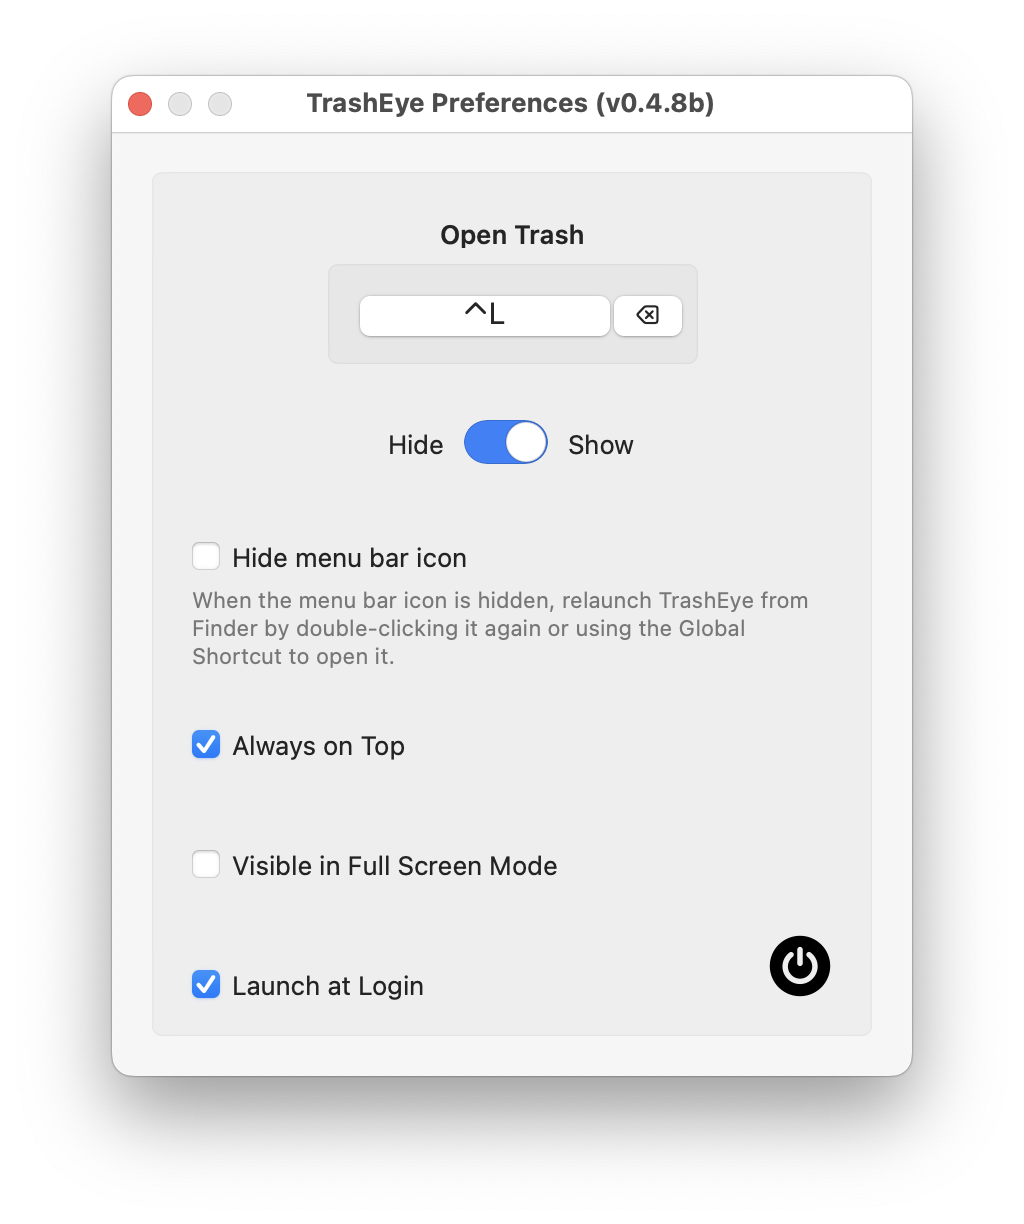
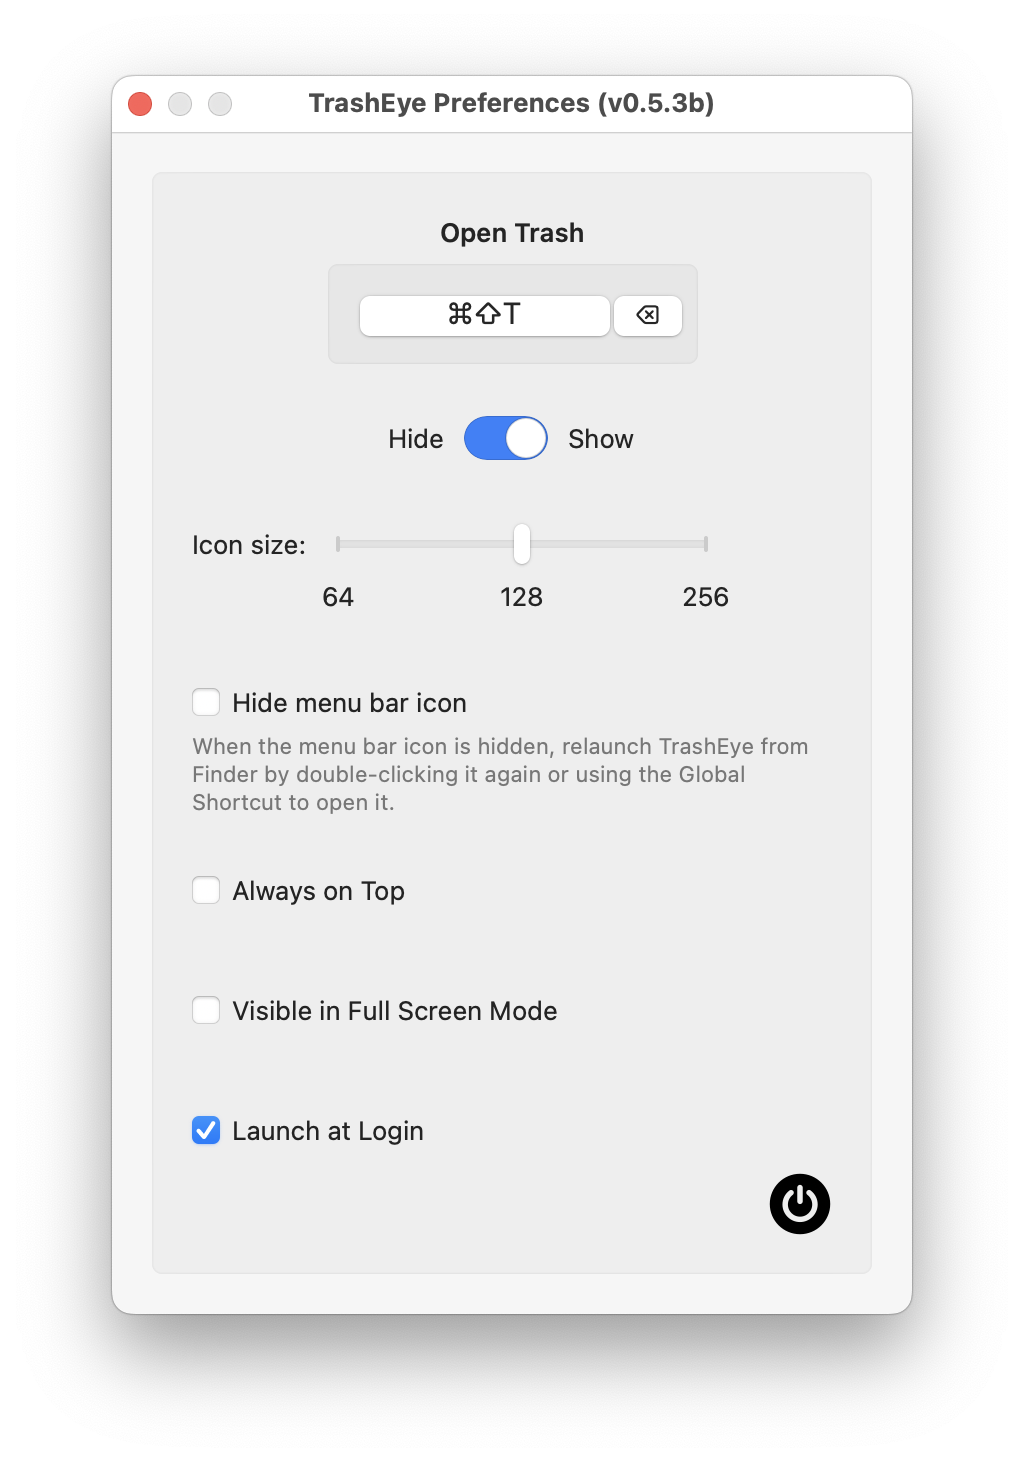
Release TrashEye v0.5.3b and Touch Bar companion widget

diff --git a/downloads.md b/downloads.md
@@ -70,9 +70,19 @@ Yes, they are free while in beta.
 | ------------------- |
 | Apple silicon or Intel processor |
 
-| Version | Download | Release notes | Minimum OS
-| ------- | -------- | ------------- | ----------
-| v0.5.2 | [Public Beta](https://github.com/synappser/TrashEye/releases/download/v0.5.2/TrashEye_v0.5.2b.dmg) | [Release notes]({{ site.url }}{% link releases/trasheye_v0.5.2.md %}) | macOS 10.14.6|
+{:.mt-n1}
+**New!** TrashEye now has a BetterTouchTool Touch Bar companion trash can widget that, beyond showing the number of trashed items, allows you to open the local trash bin by touching the widget's icon.
+
+{:.mt-n3}
+![Companion Widget]({{ site.url }}/images/apps/companion-widget.gif)
+
+{:.mt-n3}
+**[Download the companion widget](https://github.com/synappser/Companion/releases/download/v1.0/Companion_v1.0.zip?raw=true)** (installation instructions in the zip file)
+
+| Version | Download | Release notes | Minimum OS|
+| ------- | -------- | ------------- | ----------|
+| v0.5.3 | [Public Beta](https://github.com/synappser/TrashEye/releases/download/v0.5.3/TrashEye_v0.5.3b.dmg) | [Release notes]({{ site.url }}{% link releases/trasheye_v0.5.3.md %}) | macOS 11.0|
+| v0.5.2 | Public Beta | [Release notes]({{ site.url }}{% link releases/trasheye_v0.5.2.md %}) | macOS 10.14.6|
 | v0.4.9 | Public Beta | [Release notes]({{ site.url }}{% link releases/trasheye_v0.4.9.md %}) | macOS 10.13|
 
 {% include legal-note.html %}{:.mt-6}

diff --git a/_apps/trasheye.md b/_apps/trasheye.md
@@ -27,6 +27,15 @@ However, all of these were not real-time, sometimes taking several seconds to re
 What's remarkable about **TrashEye** is its real-time refresh rate. It also has practically zero impact on both CPU and memory.
 
 {:.pb-1 .mt-1 .sub-heading}
+## Companion Widget
+
+TrashEye now has a BetterTouchTool Touch Bar companion trash can widget that, beyond showing the number of trashed items, allows you to open the local trash bin by touching the widget's icon.
+
+![Companion Widget]({{ site.url }}/images/apps/companion-widget-cropped.gif)
+
+**[Download the widget](https://github.com/synappser/Companion/releases/download/v1.0/Companion_v1.0.zip?raw=true)** (installation instructions in the zip file)
+
+{:.pb-1 .mt-1 .sub-heading}
 ## Features
 
 - Sliding the switch to On in the Preferences window, displays a Trash icon in the bottom left corner of your Desktop

diff --git a/releases/autofocus_v0.6.7.md b/releases/autofocus_v0.6.7.md
@@ -8,7 +8,7 @@ layout: release
 
 - Experimental Focus Without Raising
 - Focus without raising is enabled only if the required framework is available on the system
-- The Function modifier key (fn) allows temporarily window raising with focusing.
+- The Function modifier key (fn) allows temporarily window raising with focusing
 - Correct preferences delay slider knob clipping in view
 - Filter Emoji & Symbols window (Ctrl-Cmd-Space)
 - Minimum OS requirements: macOS 11.0

diff --git a/releases/trasheye_v0.5.3.md b/releases/trasheye_v0.5.3.md
@@ -1,0 +1,16 @@
+---
+title: "TrashEye"
+version: "0.5.3"
+date: "July 23, 2023"
+image: "images/apps/trasheye.png"
+layout: release
+---
+
+- Ongoing stability improvements
+- Minimum OS requirements: macOS 11.0
+- New BetterTouchTool Touch Bar companion trash can widget for MacBook Pros with Touch Bar
+
+<br />
+
+{:.pt-2}
+[Downloads]({{ site.url }}{% link downloads.md %}){:.button .button-primary style="text-decoration: none;"}
